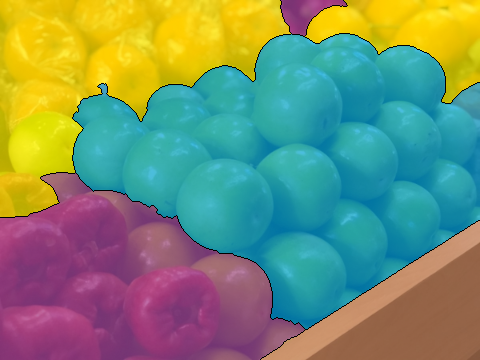
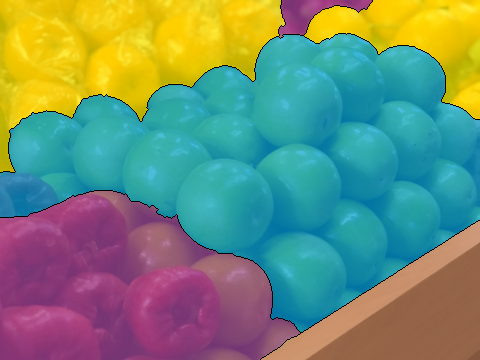
Refactor image processing code and optimize video generation in Q class

diff --git a/HW4/110590004_hw4.py b/HW4/110590004_hw4.py
@@ -24,15 +24,17 @@ class Q:
         self.images = []
         self.labels = [
             ["a349a4", "00a2e8", "fff200", "b97a57"], ["ff7f27", "fff200", "22b14c", "00a2e8", "3f48cc", "a349a4",
-                                                       "b97a57", "ffaec9", "ffc90e", "efe4b0", "b5e61d", "99d9ea", "880015","c8bfe7", "ed1c24"], ["a349a4", "3f48cc", "ed1c24"]
+                                                       "b97a57", "ffaec9", "ffc90e", "efe4b0", "b5e61d", "99d9ea", "880015", "c8bfe7", "ed1c24"], ["a349a4", "3f48cc", "ed1c24"]
         ]
-        VIDEO = True
+        VIDEO = False
         for i in range(1, 4):
-            img = np.zeros((self.origin_images[i - 1].shape[0], self.origin_images[i - 1].shape[1], 3))
+            img = np.zeros(
+                (self.origin_images[i - 1].shape[0], self.origin_images[i - 1].shape[1], 3))
             for row in range(self.origin_images[i - 1].shape[0]):
                 for col in range(self.origin_images[i - 1].shape[1]):
                     img[row][col] = self.origin_images[i - 1][row][col]
             self.images.append(img)
+
         @problem
         def P1():
             class PriorityQueue:
@@ -47,23 +49,31 @@ class Q:
 
                 def pop(self):
                     return heappop(self.elements)[1]
+
                 def size(self):
                     return len(self.elements)
+
             def water_shed(image, id):
                 # grayscale
                 # let he last dimension become 1d
-                rs = np.zeros((image.shape[0], image.shape[1], 1))
-                for row in range(image.shape[0]):
-                    for col in range(image.shape[1]):
-                        rs[row][col] = 0.299 * image[row][col][2] + 0.587 * image[row][col][1] + 0.114 * image[row][col][0]
-                image = deepcopy(rs)
+                # rs = np.zeros((image.shape[0], image.shape[1], 1))
+                # for row in range(image.shape[0]):
+                #     for col in range(image.shape[1]):
+                #         rs[row][col] = 0.299 * image[row][col][2] + 0.587 * \
+                #             image[row][col][1] + 0.114 * image[row][col][0]
+                # import os
+                # if not os.path.exists("./debug"):
+                #     os.makedirs("./debug")
+                # cv2.imwrite("./debug/img" + str(id) + "_q1_gray.png", rs)
+                # image = deepcopy(rs)
                 seeds = []
                 pq = PriorityQueue()
                 width, height, _ = image.shape
                 land = np.zeros((width, height))
-                labeled_image = cv2.imread("./images/img" + str(id) + "_q1-1.png")
+                labeled_image = cv2.imread(
+                    "./images/img" + str(id) + "_q1-1.png")
                 mapping = {}
-                label_map = {} 
+                label_map = {}
                 for i, l in enumerate(self.labels[id - 1]):
                     # rgb string to bgr tuple
                     rgb = int(l, 16)
@@ -73,53 +83,38 @@ class Q:
                 group_mean = {}
                 for row in range(width):
                     for col in range(height):
-                        if(labeled_image[row][col][0], labeled_image[row][col][1], labeled_image[row][col][2]) in mapping:
-                            land[row][col] = mapping[(labeled_image[row][col][0], labeled_image[row][col][1], labeled_image[row][col][2])]
+                        if (labeled_image[row][col][0], labeled_image[row][col][1], labeled_image[row][col][2]) in mapping:
+                            land[row][col] = mapping[(
+                                labeled_image[row][col][0], labeled_image[row][col][1], labeled_image[row][col][2])]
                             seeds.append((row, col))
-                            mean, cnt= group_mean.get(land[row][col], (np.zeros(3), 0))
-                            group_mean[land[row][col]] = (cnt * mean + image[row][col]) / (cnt + 1), cnt + 1
+                            mean, cnt = group_mean.get(
+                                land[row][col], (np.zeros(3), 0))
+                            group_mean[land[row][col]] = (
+                                cnt * mean + image[row][col]) / (cnt + 1), cnt + 1
+
                 def legal(x, y, w, h):
                     return x >= 0 and y >= 0 and x < w and y < h
-                def get_n_neighbors(img, x, y, n = 1):
+
+                def get_n_neighbors(img, x, y, n=1):
                     neighbors = []
                     width, height, _ = img.shape
-                    for i in range(-n, n+1):
-                        for j in range(-n, n+1):
+                    for i in range(-n, n + 1):
+                        for j in range(-n, n + 1):
                             if legal(x + i, y + j, width, height):
                                 neighbors.append((x + i, y + j))
                     return np.array(neighbors)
-                # cache = {} 
-                # MAX_CACHE_SIZE = 100
+
                 def distance(c1, c2):
                     return np.sqrt(np.sum((c1 - c2) ** 2))
-                    # key = hash_colors(c1, c2)
-                    # if key in cache:
-                    #     return cache[key]
-                    # d = np.sqrt(np.sum((c1 - c2) ** 2))
-                    # cache[key] = d
-                    # key1, key2 = tuple(sorted((c1.tobytes(), c2.tobytes())))
-                    # if key1 in cache or key2 in cache:
-                    #     return cache[key1]
-                    # d = np.sqrt(np.sum((c1 - c2) ** 2))
-                    # cache[key1] = d
-                    # cache[key2] = d
-                    # if len(cache) > MAX_CACHE_SIZE: 
-                    #     # Evict least recently used item
-                    #     cache.pop(next(iter(cache)))
-                    # return d
-
-                # def hash_colors(c1, c2):
-                #     hash_input = tuple(sorted((c1.tobytes(), c2.tobytes())))
-                #     return hashlib.sha1(str(hash_input).encode()).hexdigest() 
                 # def priority(x, y, image, group):
                 #     neighbors = get_n_neighbors(image, x, y, 1)
                 #     colors = [image[n[0]][n[1]] for n in neighbors] + [image[x][y]]
                 #     # return distance(np.mean(colors, axis=0), image[x][y])
-                #     # return np.mean([distance(c, image[x][y]) for c in colors]) + 0.1 * np.std([distance(c, image[x][y]) for c in colors]) 
-                #     clrs = np.array([distance(c, image[x][y]) for c in colors]) 
+                #     # return np.mean([distance(c, image[x][y]) for c in colors]) + 0.1 * np.std([distance(c, image[x][y]) for c in colors])
+                #     clrs = np.array([distance(c, image[x][y]) for c in colors])
                 #     # print(np.std(clrs), np.mean(clrs), distance(group, image[x][y]))
                 #     # return distance(group, image[x][y])+  np.std(clrs) + np.mean(clrs)
-                #     return 0.042*np.std(clrs) + 0.69*np.mean(clrs) + 0.1 * distance(group, image[x][y]) 
+                #     return 0.042*np.std(clrs) + 0.69*np.mean(clrs) + 0.1 * distance(group, image[x][y])
                 #     # return np.max([distance(c, image[x][y]) for c in colors])
                 def sobel(x, y, image):
                     sobelX = np.array([[-1, 0, 1], [-2, 0, 2], [-1, 0, 1]])
@@ -132,27 +127,33 @@ class Q:
                     gx = np.sum(sobelX * k)
                     gy = np.sum(sobelY * k)
                     return np.sqrt(gx ** 2 + gy ** 2)
+
                 def priority(x, y, image, group_mean_color):
                     neighbors = get_n_neighbors(image, x, y, 1)
-                    colors = [image[n[0], n[1]] for n in neighbors]  # Only consider labeled neighbors
+                    # Only consider labeled neighbors
+                    colors = [image[n[0], n[1]] for n in neighbors]
 
-                    
                     colors = np.array(colors)
-                    mean_color = np.mean(colors, axis=0)  # Compute mean color of the neighbors
-                    color_variance = np.var(colors, axis=0).sum()  # Sum of variances of RGB channels
-                    
+                    # Compute mean color of the neighbors
+                    mean_color = np.mean(colors, axis=0)
+                    # Sum of variances of RGB channels
+                    color_variance = np.var(colors, axis=0).sum()
+
                     color_distance = distance(image[x, y], mean_color)
                     group_distance = distance(image[x, y], group_mean_color)
 
-                    
                     # Adjust weights for each component based on your image specifics and desired segmentation sharpness
                     # priority_value = 0.5 * color_distance + 0.5 * color_variance + 0.1 * group_distance + 0.1 * sobel(x, y, image)
-                    priority_value = sobel(x, y, image) + 0.5 * color_distance + 0.5 * color_variance 
+                    priority_value = 1 * sobel(
+                        x, y, image) + 0.5 * color_distance + 1 * color_variance
+                    # print(priority_value, sobel(x, y, image), color_distance,
+                    #       color_variance, group_distance)
                     return priority_value
- 
-                    
+
                 for seed in seeds:
-                    pq.push(seed, priority(seed[0], seed[1], image, group_mean[land[seed[0]][seed[1]]][0]))
+                    pq.push(seed, priority(
+                        seed[0], seed[1], image, group_mean[land[seed[0]][seed[1]]][0]))
+
                 def get_neighbors(img, x, y):
                     neighbors = []
                     if x > 0:
@@ -172,25 +173,30 @@ class Q:
                     while not pq.empty():
                         cn += 1
                         x, y = pq.pop()
-                        neighbors = get_neighbors(land, x, y) 
-                        if VIDEO and cn % 10000 ==0 :
+                        neighbors = get_neighbors(land, x, y)
+                        if VIDEO and cn % 10000 == 0:
                             arc.append(deepcopy(land))
-                        neighbors = np.array([n for n in neighbors if land[n[0]][n[1]] >= 0])
+                        neighbors = np.array(
+                            [n for n in neighbors if land[n[0]][n[1]] >= 0])
                         if land[x, y] == -2:
                             # if there are different labels in the neighbors, then the pixel is a boundary
-                            if np.unique([land[n[0]][n[1]] for n in neighbors if land[n[0]][n[1]] > 0]).size > 1 or neighbors.size == 0: 
+                            if np.unique([land[n[0]][n[1]] for n in neighbors if land[n[0]][n[1]] > 0]).size > 1 or neighbors.size == 0:
                                 land[x][y] = -1
                                 bar()
                                 continue
                             else:
-                                land[x][y] = np.max([land[n[0]][n[1]] for n in neighbors])
-                                mean, cnt = group_mean.get(land[x][y], (np.zeros(3), 0))
-                                group_mean[land[x][y]] = (cnt * mean + image[x][y]) / (cnt + 1), cnt + 1
+                                land[x][y] = np.max(
+                                    [land[n[0]][n[1]] for n in neighbors])
+                                mean, cnt = group_mean.get(
+                                    land[x][y], (np.zeros(3), 0))
+                                group_mean[land[x][y]] = (
+                                    cnt * mean + image[x][y]) / (cnt + 1), cnt + 1
                         for n in neighbors:
                             if land[n[0]][n[1]] == 0:
                                 land[n[0]][n[1]] = -2
-                                pq.push((n[0], n[1]), priority(n[0], n[1], image, group_mean[land[x][y]][0]) )
-                            
+                                pq.push((n[0], n[1]), priority(
+                                    n[0], n[1], image, group_mean[land[x][y]][0]))
+
                         bar()
                 return land, label_map, arc
 
@@ -210,11 +216,13 @@ class Q:
                                     if a[row][col] == -1:
                                         frame[row][col] = [0, 0, 0]
                                     elif a[row][col] > 0:
-                                        frame[row][col] = (frame[row][col] * 0.3 + np.array(lm[a[row][col]]) * 0.7).astype(np.uint8)
+                                        frame[row][col] = (
+                                            frame[row][col] * 0.3 + np.array(lm[a[row][col]]) * 0.7).astype(np.uint8)
                             frames.append(frame)
                             bar()
                     fourcc = cv2.VideoWriter_fourcc(*'mp4v')
-                    out = cv2.VideoWriter("./images/img" + str(i) + "_q1-3.mp4", fourcc, 3, (height, width)) 
+                    out = cv2.VideoWriter(
+                        "./images/img" + str(i) + "_q1-3.mp4", fourcc, 3, (height, width))
                     print("writing video")
                     for frame in frames:
                         out.write(frame)
@@ -228,7 +236,8 @@ class Q:
                         else:
                             # origin[row][col] = lm[land[row][col]]
                             # instead of cover the original image, we can tint the region
-                            origin[row][col] = (origin[row][col] * 0.3 + np.array(lm[land[row][col]]) * 0.7).astype(np.uint8) 
+                            origin[row][col] = (
+                                origin[row][col] * 0.3 + np.array(lm[land[row][col]]) * 0.7).astype(np.uint8)
                 cv2.imwrite("./images/img" + str(i) + "_q1-2.png", origin)
                 print("img" + str(i) + " done")
 
